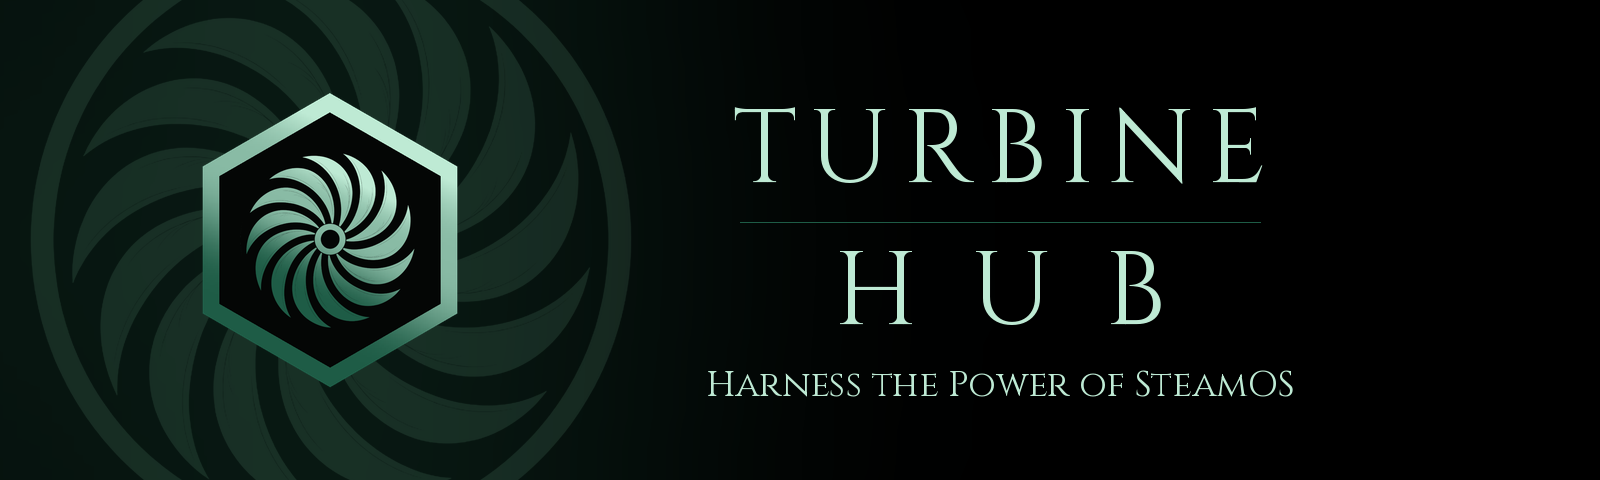
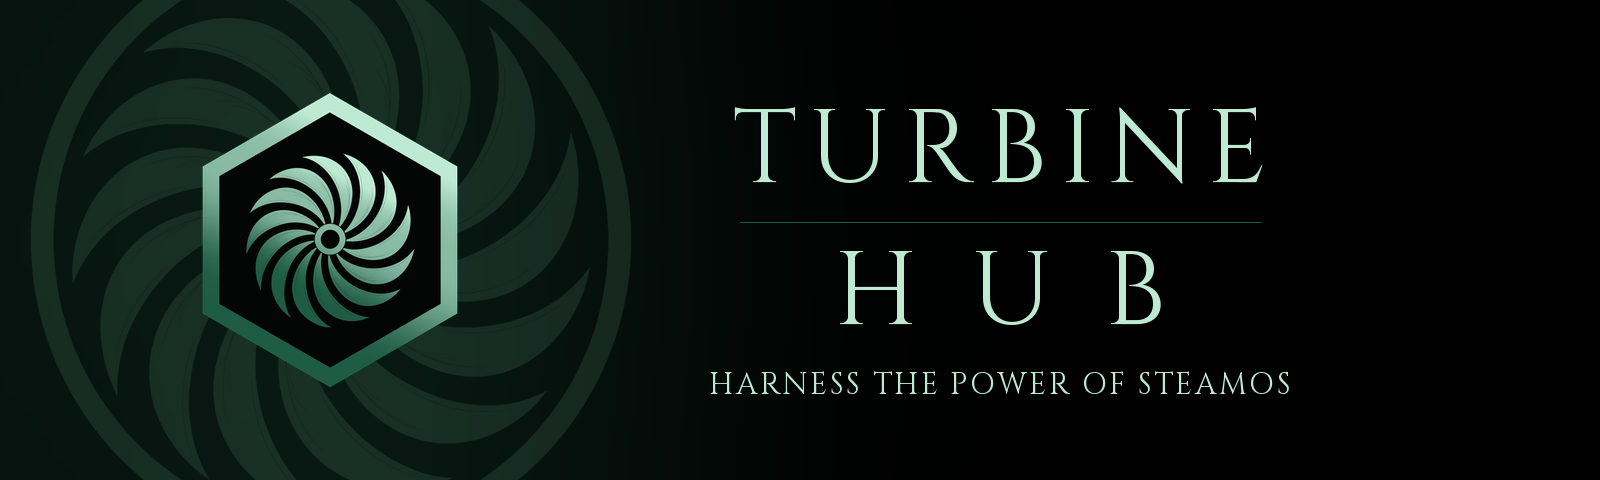
The tagline in capitals, spaced like Turbine Hub's name

Changed region(s): [[0.4375, 0.75, 0.8125, 0.8438]]

diff --git a/tools/readme-art.py b/tools/readme-art.py
@@ -44,7 +44,7 @@ README_SHOTS = [
 ]
 
 
-TAGLINE = "Harness the Power of SteamOS"
+TAGLINE = "HARNESS THE POWER OF STEAMOS"
 
 
 def line(im, text, middle, height, fill=SOFT, face=BODY):
@@ -60,7 +60,7 @@ def banner():
     art.words(im, "TURBINE", (1000, 150), 104)
     art.rule(im, (1000, 222), 520)
     art.words(im, "HUB", (1000, 292), 104, spacing=0.5)
-    line(im, TAGLINE, (1000, 385), 36, fill=art.BRASS_HI, face=art.FONT)
+    art.words(im, TAGLINE, (1000, 385), 30, spacing=0.08)
     return im
 
 
@@ -70,7 +70,7 @@ def social():
     art.put_turbine(im, (w // 2, 250), 560, faint=40)
     art.put_turbine(im, (w // 2, 250), 290)
     art.words(im, "TURBINE HUB", (w // 2, 485), 70, spacing=0.1)
-    line(im, TAGLINE, (w // 2, 565), 36, fill=art.BRASS_HI, face=art.FONT)
+    art.words(im, TAGLINE, (w // 2, 565), 30, spacing=0.08)
     return im
 
 
